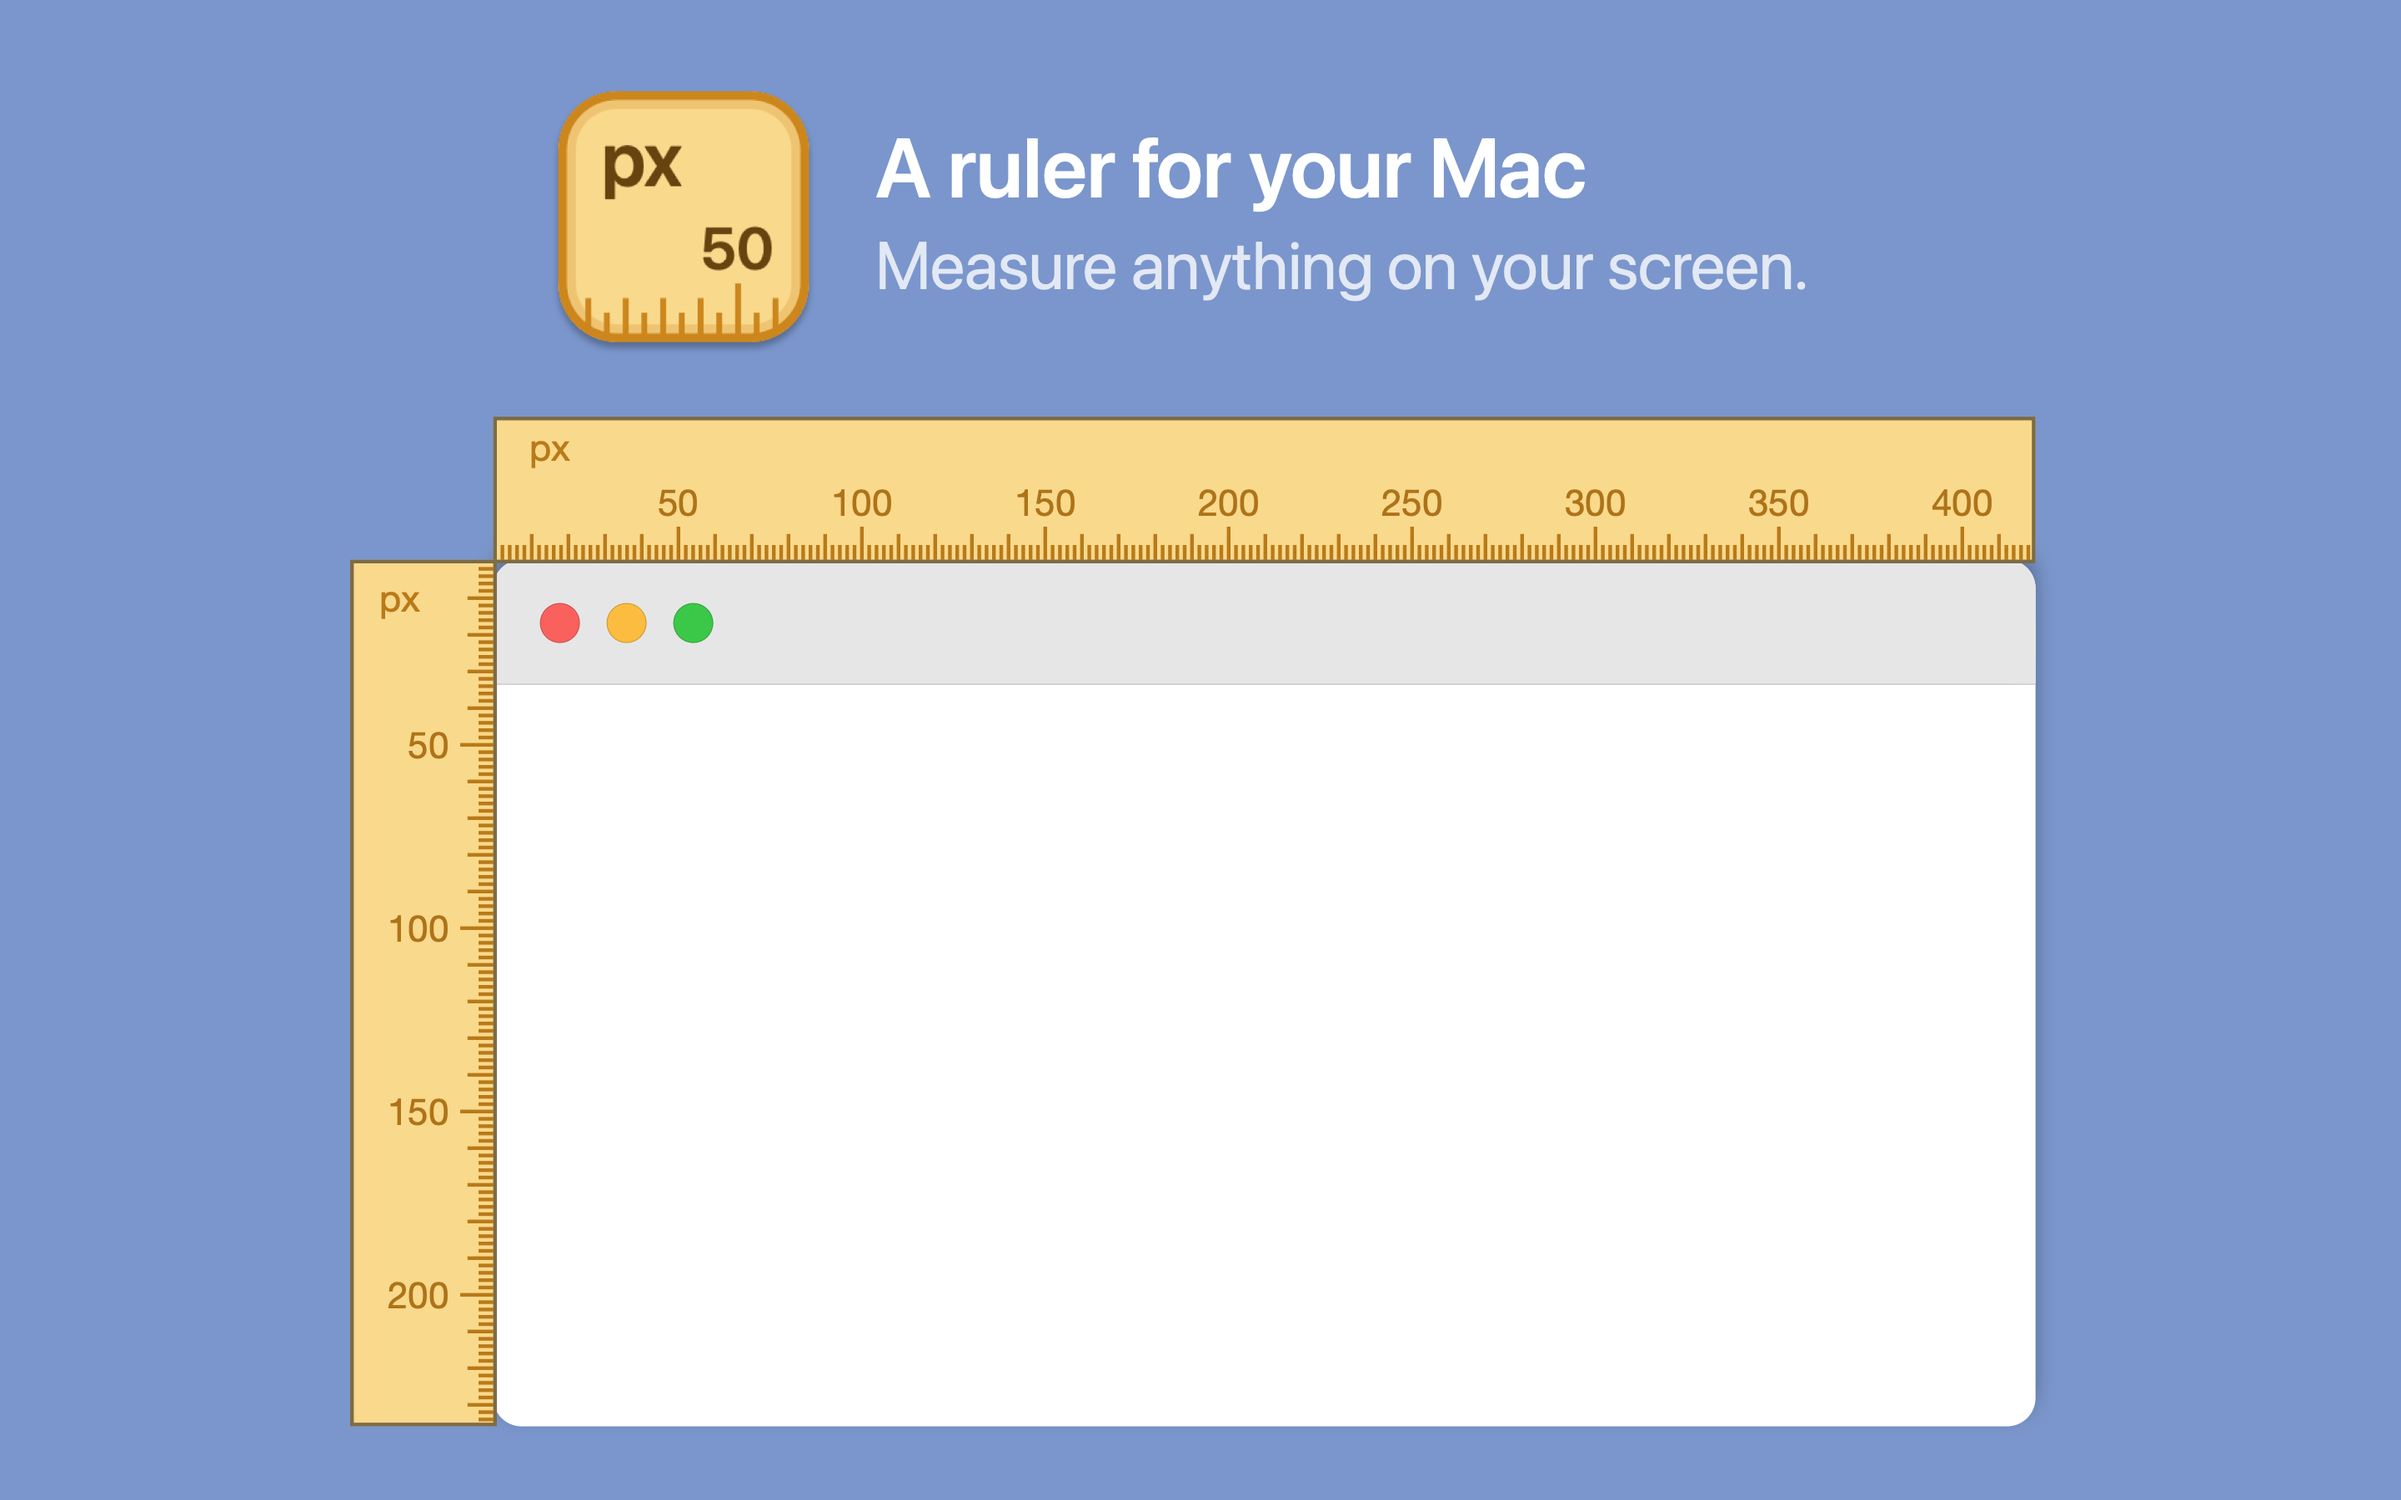
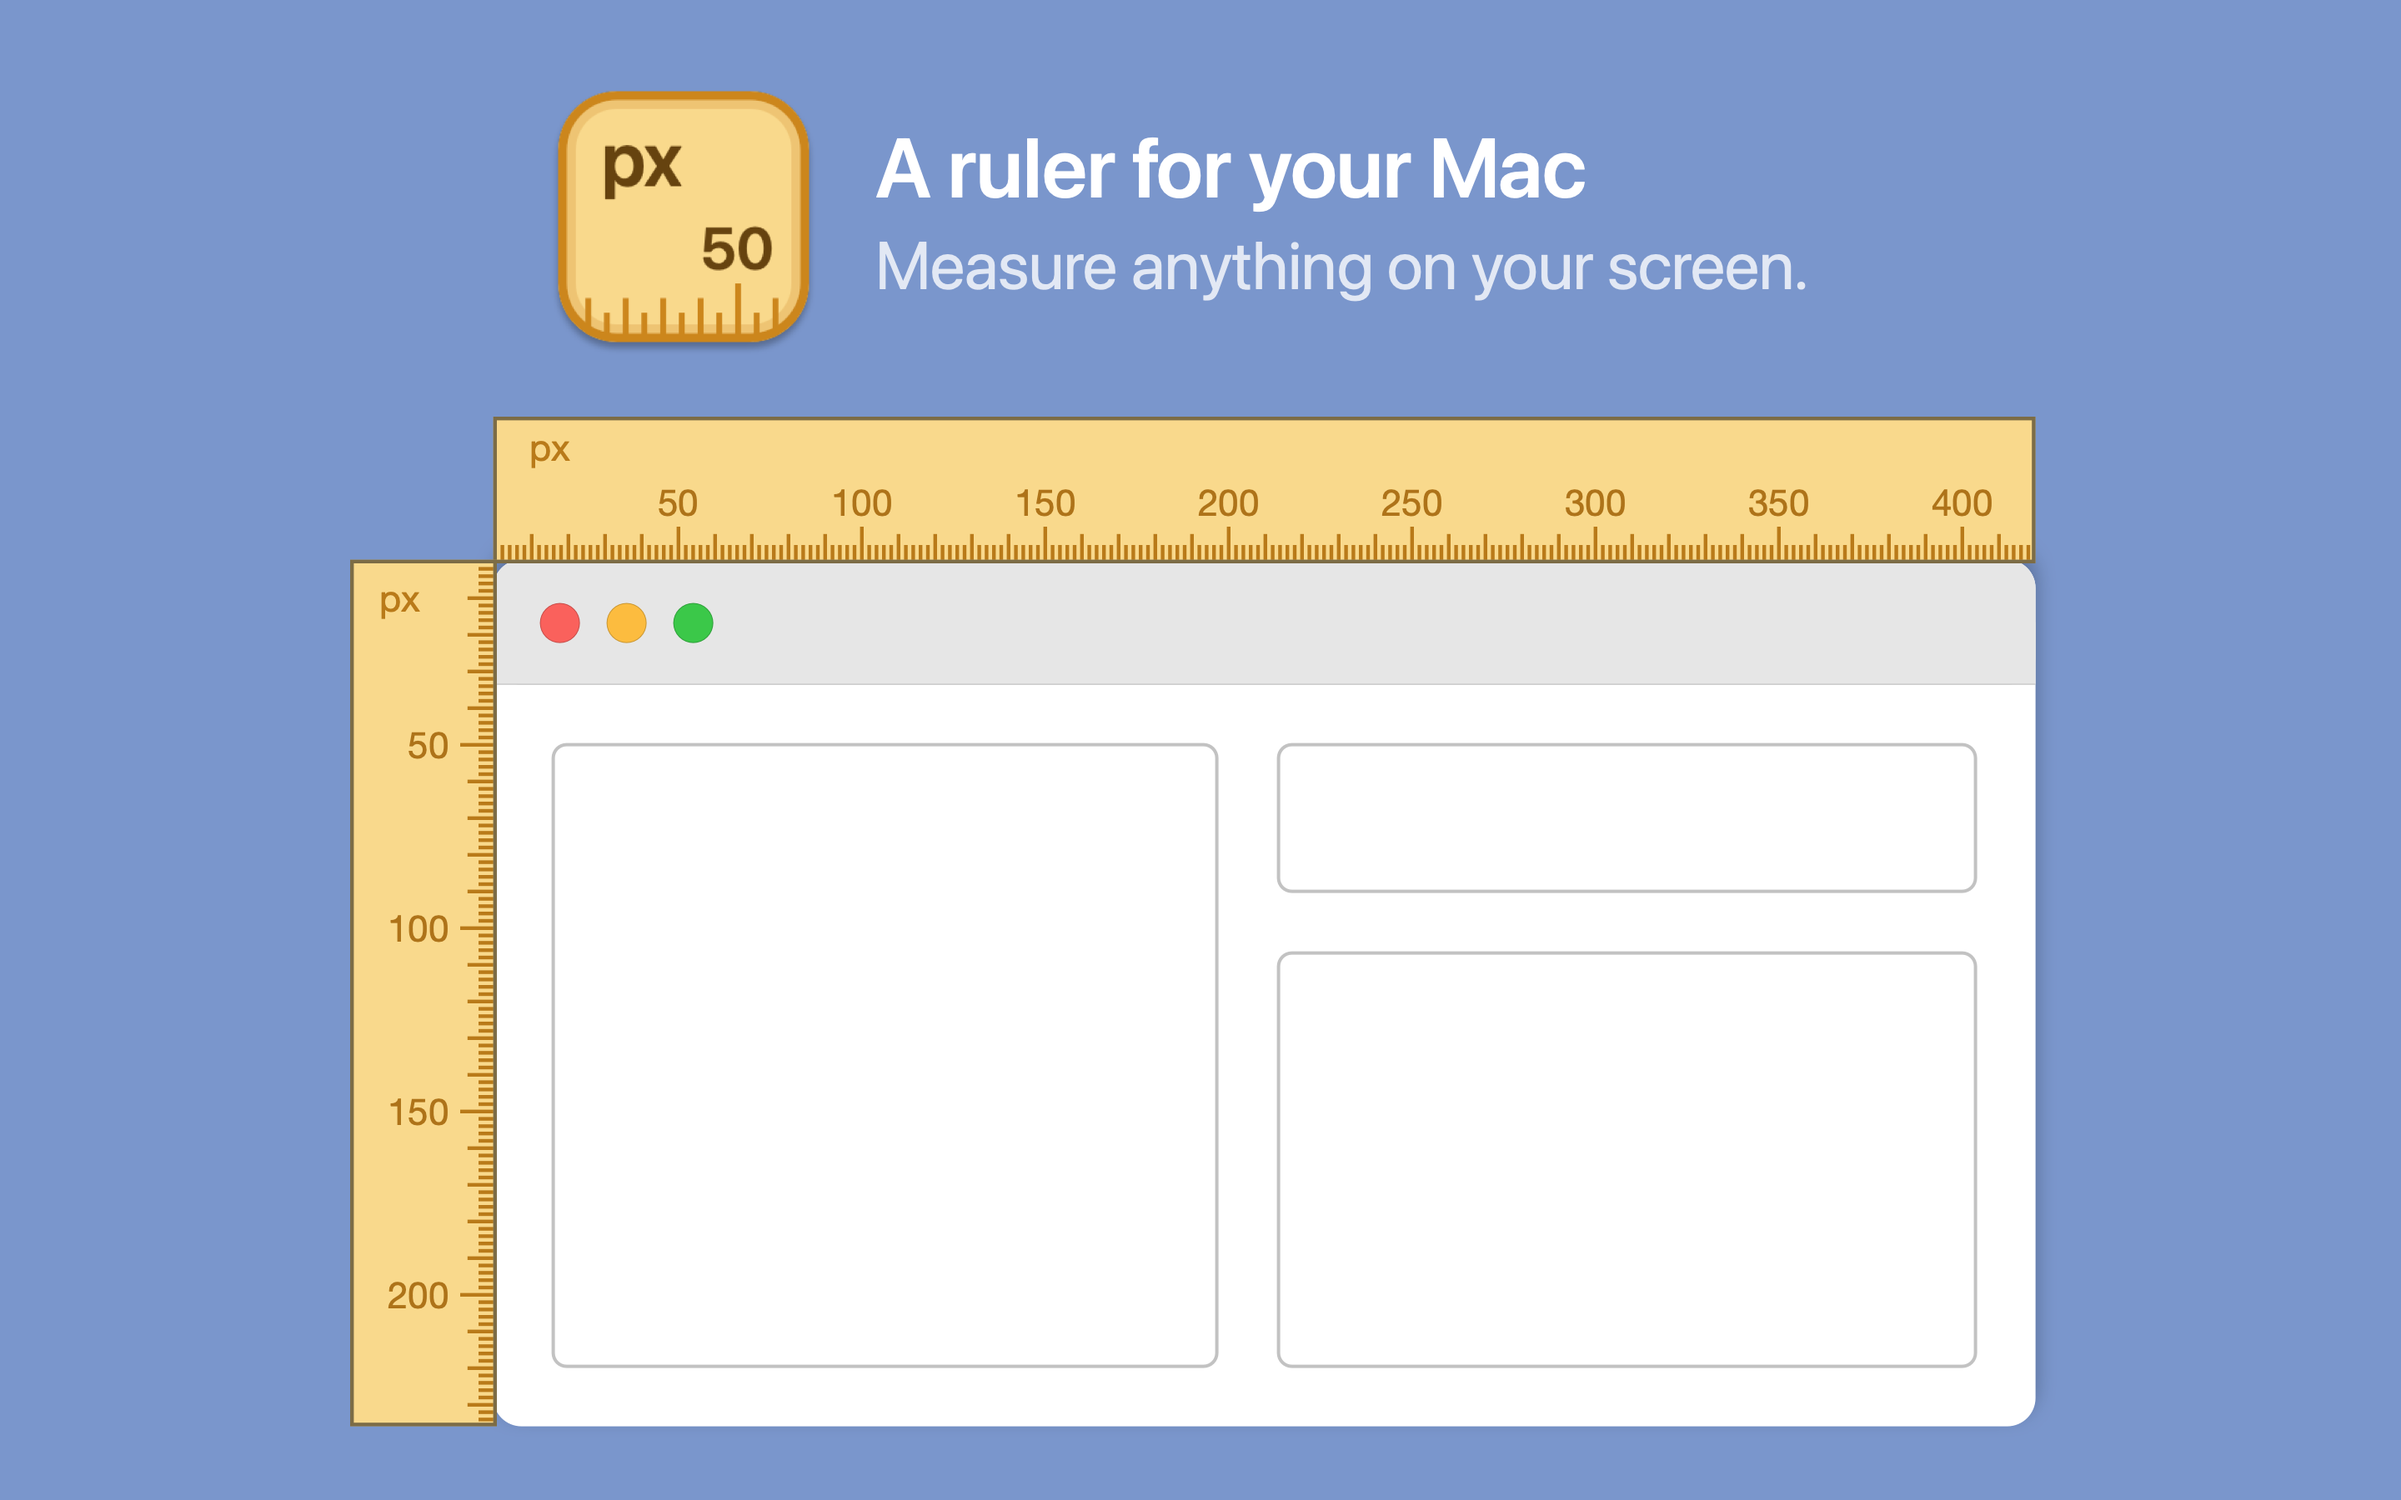
Add screen1 boxes and rounded stroke
Introduce layout constants and computed rects for screen1 (gutters, widths, heights, border color/width/radius) and sampleWindowContentRect to position box regions inside the sample window. Add drawScreen1Boxes() to render three screen1 boxes and a stroke(_:,color:,width:,radius:) helper to support rounded border drawing (plus a convenience overload). Update the screenshot asset as well. These changes visually mark subregions in the App Store preview sample window.

diff --git a/Free Ruler/AppStoreScreenshotPreview.swift b/Free Ruler/AppStoreScreenshotPreview.swift
@@ -199,6 +199,13 @@ private enum AppStoreScreenshotLayout {
     static let sampleWindowShadowYOffset: CGFloat = 12
     static let sampleWindowShadowOpacity: CGFloat = 0.28
 
+    static let screen1BoxGutter: CGFloat = 70
+    static let screen1Box1Width: CGFloat = 800
+    static let screen1Box2Height: CGFloat = 180
+    static let screen1BoxBorderColor = #colorLiteral(red: 0, green: 0, blue: 0, alpha: 0.24)
+    static let screen1BoxBorderWidth: CGFloat = 4
+    static let screen1BoxBorderRadius: CGFloat = 16
+
     static let titlebarHorizontalOutset: CGFloat = 0
     static let titlebarHeight: CGFloat = 150
     static let trafficLightDiameter: CGFloat = 48
@@ -288,6 +295,44 @@ private enum AppStoreScreenshotLayout {
             y: sampleWindowRect.minY,
             width: sampleWindowRect.width + (titlebarHorizontalOutset * 2),
             height: titlebarHeight
+        )
+    }
+
+    static var sampleWindowContentRect: NSRect {
+        NSRect(
+            x: sampleWindowRect.minX,
+            y: sampleWindowRect.minY + titlebarHeight,
+            width: sampleWindowRect.width,
+            height: sampleWindowRect.height - titlebarHeight
+        )
+    }
+
+    static var screen1Box1Rect: NSRect {
+        NSRect(
+            x: sampleWindowContentRect.minX + screen1BoxGutter,
+            y: sampleWindowContentRect.minY + screen1BoxGutter,
+            width: screen1Box1Width,
+            height: sampleWindowContentRect.height - (screen1BoxGutter * 2)
+        )
+    }
+
+    static var screen1Box2Rect: NSRect {
+        let x = screen1Box1Rect.maxX + screen1BoxGutter
+        return NSRect(
+            x: x,
+            y: sampleWindowContentRect.minY + screen1BoxGutter,
+            width: sampleWindowContentRect.maxX - x - screen1BoxGutter,
+            height: screen1Box2Height
+        )
+    }
+
+    static var screen1Box3Rect: NSRect {
+        let y = screen1Box2Rect.maxY + screen1BoxGutter
+        return NSRect(
+            x: screen1Box2Rect.minX,
+            y: y,
+            width: screen1Box2Rect.width,
+            height: sampleWindowContentRect.maxY - y - screen1BoxGutter
         )
     }
 
@@ -864,6 +909,7 @@ private final class AppStoreScreenshotScenarioNSView: NSView {
         switch screen {
         case .screen1:
             drawSampleWindow(AppStoreScreenshotLayout.sampleWindowRect)
+            drawScreen1Boxes()
         case .screen2:
             break
         case .screen3:
@@ -929,6 +975,21 @@ private final class AppStoreScreenshotScenarioNSView: NSView {
         ).fill()
         drawTitlebarDivider(in: titlebarRect)
         drawTrafficLights(at: sampleWindowTrafficLightOrigin(for: rect))
+    }
+
+    private func drawScreen1Boxes() {
+        for rect in [
+            AppStoreScreenshotLayout.screen1Box1Rect,
+            AppStoreScreenshotLayout.screen1Box2Rect,
+            AppStoreScreenshotLayout.screen1Box3Rect,
+        ] {
+            stroke(
+                rect,
+                color: AppStoreScreenshotLayout.screen1BoxBorderColor,
+                width: AppStoreScreenshotLayout.screen1BoxBorderWidth,
+                radius: AppStoreScreenshotLayout.screen1BoxBorderRadius
+            )
+        }
     }
 
     private func drawTitlebarDivider(in titlebarRect: NSRect) {
@@ -1014,8 +1075,15 @@ private final class AppStoreScreenshotScenarioNSView: NSView {
     }
 
     private func stroke(_ rect: NSRect, color: NSColor, width: CGFloat) {
+        stroke(rect, color: color, width: width, radius: 0)
+    }
+
+    private func stroke(_ rect: NSRect, color: NSColor, width: CGFloat, radius: CGFloat) {
         color.setStroke()
-        let path = NSBezierPath(rect: rect.insetBy(dx: width / 2, dy: width / 2))
+        let insetRect = rect.insetBy(dx: width / 2, dy: width / 2)
+        let path = radius > 0
+            ? NSBezierPath(roundedRect: insetRect, xRadius: radius, yRadius: radius)
+            : NSBezierPath(rect: insetRect)
         path.lineWidth = width
         path.stroke()
     }
